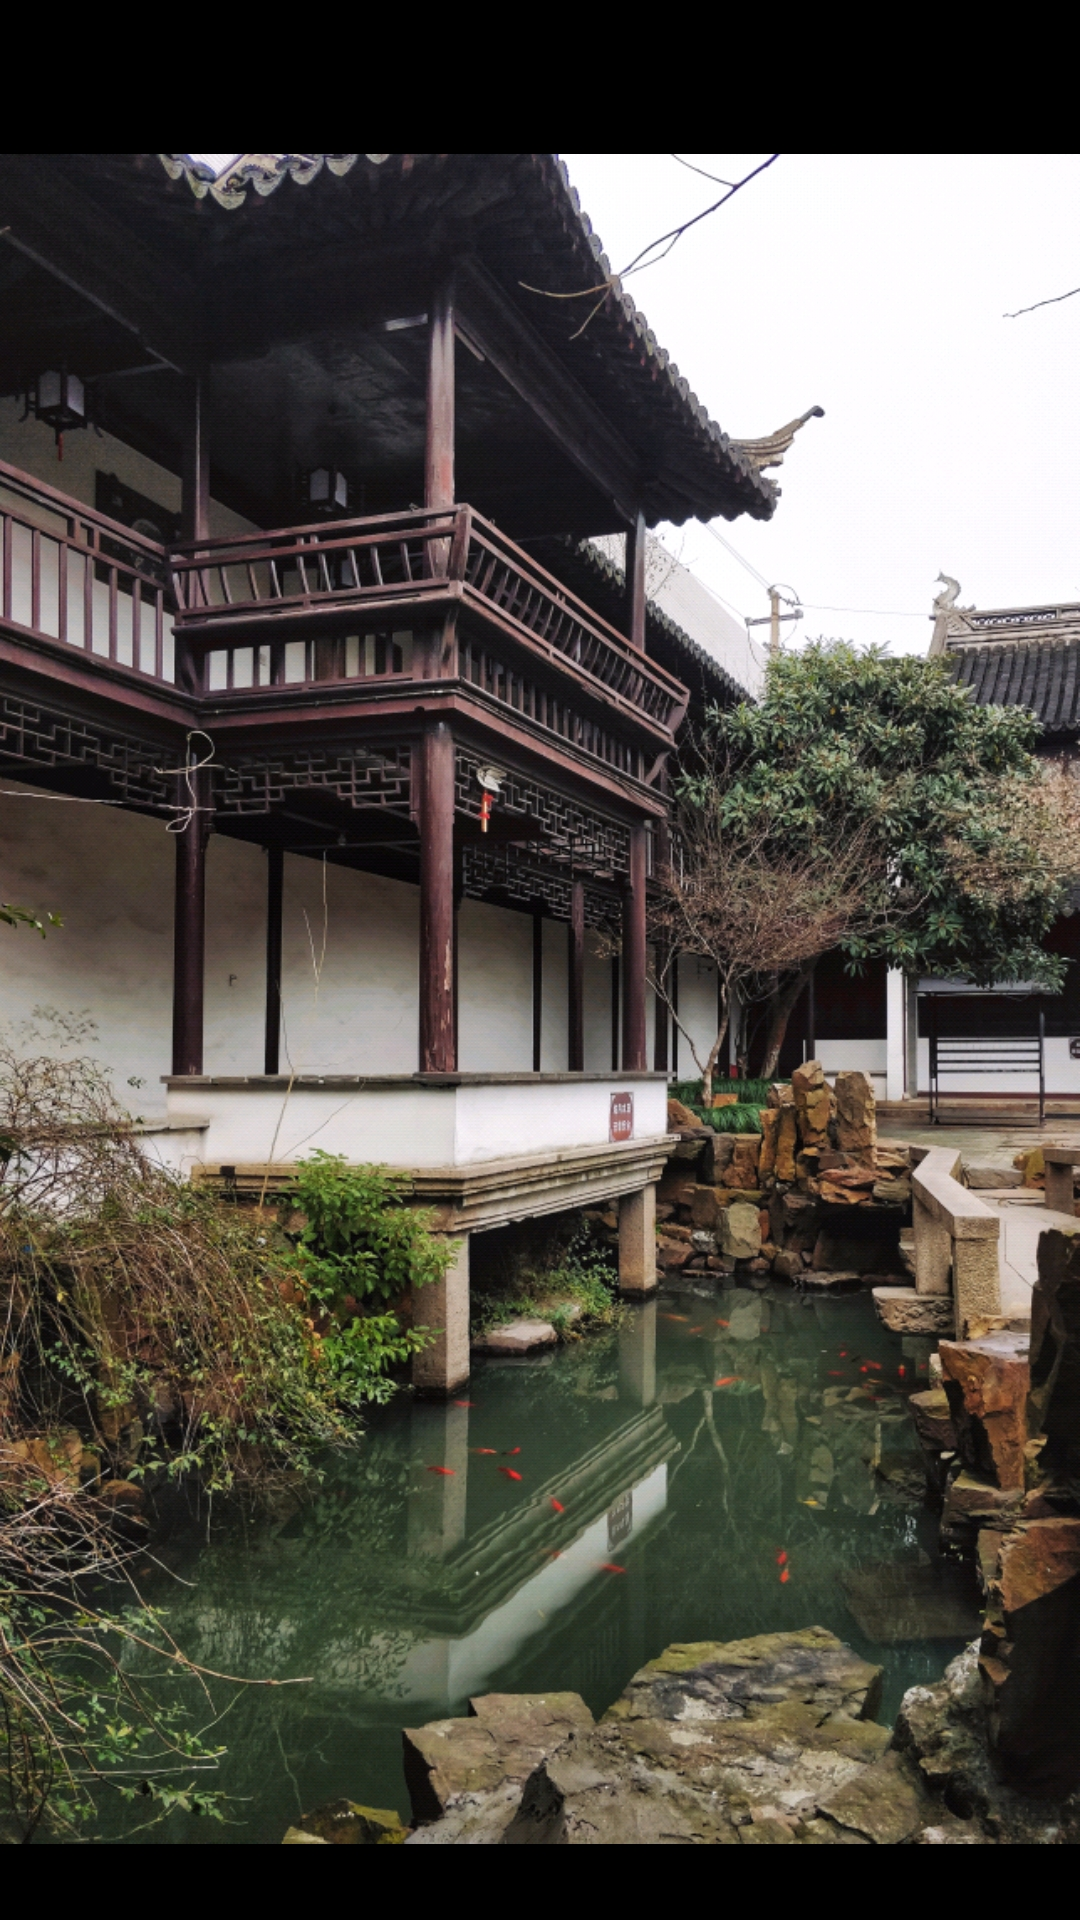
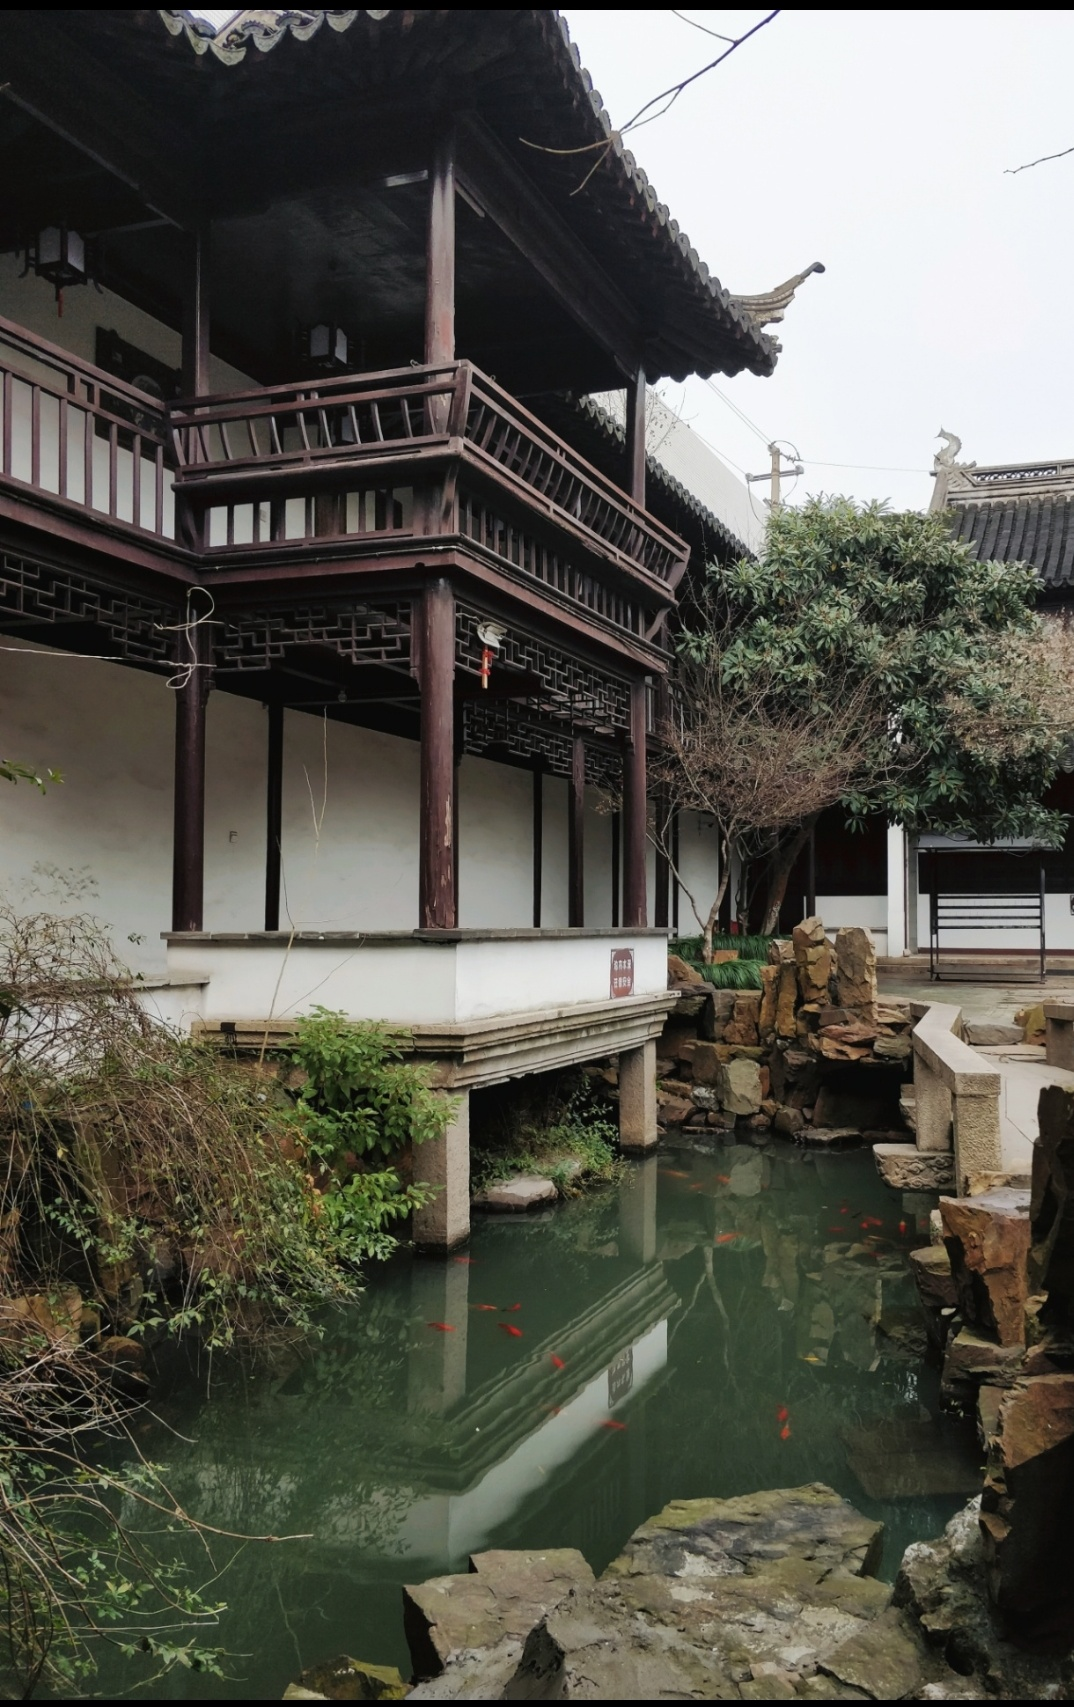
Site updated: 2019-03-06 11:07:56

diff --git a/archives/2018/08/index.html b/archives/2018/08/index.html
@@ -138,15 +138,15 @@
     </div>
 </a>
             
-                <a href="/2019/03/05/小楼昨夜又东风/">
+                <a href="/2018/08/09/hello-world/">
     <div class="dt w-100 hover-border-main-color pointer pa3 border-color bl mv3">
         <div class="dtc v-mid w-20 black-50">
             
-                <span class="f4 fw3 lh-copy">Mar 2019</span> 
+                <span class="f4 fw3 lh-copy">Aug 2018</span> 
             
         </div>
         <div class="dtc v-mid w-80 black-70">
-            <span class="f4 fw3 lh-copy">小楼昨夜又东风<span>
+            <span class="f4 fw3 lh-copy">Hello World<span>
         </span></span></div>
     </div>
 </a>
@@ -164,6 +164,19 @@
     </div>
 </a>
             
+                <a href="/2019/03/05/小楼昨夜又东风/">
+    <div class="dt w-100 hover-border-main-color pointer pa3 border-color bl mv3">
+        <div class="dtc v-mid w-20 black-50">
+            
+                <span class="f4 fw3 lh-copy">Mar 2019</span> 
+            
+        </div>
+        <div class="dtc v-mid w-80 black-70">
+            <span class="f4 fw3 lh-copy">小楼昨夜又东风<span>
+        </span></span></div>
+    </div>
+</a>
+            
                 <a href="/2019/03/04/正月二十八/">
     <div class="dt w-100 hover-border-main-color pointer pa3 border-color bl mv3">
         <div class="dtc v-mid w-20 black-50">
@@ -173,19 +186,6 @@
         </div>
         <div class="dtc v-mid w-80 black-70">
             <span class="f4 fw3 lh-copy">正月二十八<span>
-        </span></span></div>
-    </div>
-</a>
-            
-                <a href="/2018/08/09/hello-world/">
-    <div class="dt w-100 hover-border-main-color pointer pa3 border-color bl mv3">
-        <div class="dtc v-mid w-20 black-50">
-            
-                <span class="f4 fw3 lh-copy">Aug 2018</span> 
-            
-        </div>
-        <div class="dtc v-mid w-80 black-70">
-            <span class="f4 fw3 lh-copy">Hello World<span>
         </span></span></div>
     </div>
 </a>

diff --git a/archives/2018/09/index.html b/archives/2018/09/index.html
@@ -138,15 +138,15 @@
     </div>
 </a>
             
-                <a href="/2019/03/05/小楼昨夜又东风/">
+                <a href="/2018/08/09/hello-world/">
     <div class="dt w-100 hover-border-main-color pointer pa3 border-color bl mv3">
         <div class="dtc v-mid w-20 black-50">
             
-                <span class="f4 fw3 lh-copy">Mar 2019</span> 
+                <span class="f4 fw3 lh-copy">Aug 2018</span> 
             
         </div>
         <div class="dtc v-mid w-80 black-70">
-            <span class="f4 fw3 lh-copy">小楼昨夜又东风<span>
+            <span class="f4 fw3 lh-copy">Hello World<span>
         </span></span></div>
     </div>
 </a>
@@ -164,6 +164,19 @@
     </div>
 </a>
             
+                <a href="/2019/03/05/小楼昨夜又东风/">
+    <div class="dt w-100 hover-border-main-color pointer pa3 border-color bl mv3">
+        <div class="dtc v-mid w-20 black-50">
+            
+                <span class="f4 fw3 lh-copy">Mar 2019</span> 
+            
+        </div>
+        <div class="dtc v-mid w-80 black-70">
+            <span class="f4 fw3 lh-copy">小楼昨夜又东风<span>
+        </span></span></div>
+    </div>
+</a>
+            
                 <a href="/2019/03/04/正月二十八/">
     <div class="dt w-100 hover-border-main-color pointer pa3 border-color bl mv3">
         <div class="dtc v-mid w-20 black-50">
@@ -173,19 +186,6 @@
         </div>
         <div class="dtc v-mid w-80 black-70">
             <span class="f4 fw3 lh-copy">正月二十八<span>
-        </span></span></div>
-    </div>
-</a>
-            
-                <a href="/2018/08/09/hello-world/">
-    <div class="dt w-100 hover-border-main-color pointer pa3 border-color bl mv3">
-        <div class="dtc v-mid w-20 black-50">
-            
-                <span class="f4 fw3 lh-copy">Aug 2018</span> 
-            
-        </div>
-        <div class="dtc v-mid w-80 black-70">
-            <span class="f4 fw3 lh-copy">Hello World<span>
         </span></span></div>
     </div>
 </a>

diff --git a/archives/2018/index.html b/archives/2018/index.html
@@ -138,15 +138,15 @@
     </div>
 </a>
             
-                <a href="/2019/03/05/小楼昨夜又东风/">
+                <a href="/2018/08/09/hello-world/">
     <div class="dt w-100 hover-border-main-color pointer pa3 border-color bl mv3">
         <div class="dtc v-mid w-20 black-50">
             
-                <span class="f4 fw3 lh-copy">Mar 2019</span> 
+                <span class="f4 fw3 lh-copy">Aug 2018</span> 
             
         </div>
         <div class="dtc v-mid w-80 black-70">
-            <span class="f4 fw3 lh-copy">小楼昨夜又东风<span>
+            <span class="f4 fw3 lh-copy">Hello World<span>
         </span></span></div>
     </div>
 </a>
@@ -164,6 +164,19 @@
     </div>
 </a>
             
+                <a href="/2019/03/05/小楼昨夜又东风/">
+    <div class="dt w-100 hover-border-main-color pointer pa3 border-color bl mv3">
+        <div class="dtc v-mid w-20 black-50">
+            
+                <span class="f4 fw3 lh-copy">Mar 2019</span> 
+            
+        </div>
+        <div class="dtc v-mid w-80 black-70">
+            <span class="f4 fw3 lh-copy">小楼昨夜又东风<span>
+        </span></span></div>
+    </div>
+</a>
+            
                 <a href="/2019/03/04/正月二十八/">
     <div class="dt w-100 hover-border-main-color pointer pa3 border-color bl mv3">
         <div class="dtc v-mid w-20 black-50">
@@ -173,19 +186,6 @@
         </div>
         <div class="dtc v-mid w-80 black-70">
             <span class="f4 fw3 lh-copy">正月二十八<span>
-        </span></span></div>
-    </div>
-</a>
-            
-                <a href="/2018/08/09/hello-world/">
-    <div class="dt w-100 hover-border-main-color pointer pa3 border-color bl mv3">
-        <div class="dtc v-mid w-20 black-50">
-            
-                <span class="f4 fw3 lh-copy">Aug 2018</span> 
-            
-        </div>
-        <div class="dtc v-mid w-80 black-70">
-            <span class="f4 fw3 lh-copy">Hello World<span>
         </span></span></div>
     </div>
 </a>

diff --git a/archives/2019/03/index.html b/archives/2019/03/index.html
@@ -138,15 +138,15 @@
     </div>
 </a>
             
-                <a href="/2019/03/05/小楼昨夜又东风/">
+                <a href="/2018/08/09/hello-world/">
     <div class="dt w-100 hover-border-main-color pointer pa3 border-color bl mv3">
         <div class="dtc v-mid w-20 black-50">
             
-                <span class="f4 fw3 lh-copy">Mar 2019</span> 
+                <span class="f4 fw3 lh-copy">Aug 2018</span> 
             
         </div>
         <div class="dtc v-mid w-80 black-70">
-            <span class="f4 fw3 lh-copy">小楼昨夜又东风<span>
+            <span class="f4 fw3 lh-copy">Hello World<span>
         </span></span></div>
     </div>
 </a>
@@ -164,6 +164,19 @@
     </div>
 </a>
             
+                <a href="/2019/03/05/小楼昨夜又东风/">
+    <div class="dt w-100 hover-border-main-color pointer pa3 border-color bl mv3">
+        <div class="dtc v-mid w-20 black-50">
+            
+                <span class="f4 fw3 lh-copy">Mar 2019</span> 
+            
+        </div>
+        <div class="dtc v-mid w-80 black-70">
+            <span class="f4 fw3 lh-copy">小楼昨夜又东风<span>
+        </span></span></div>
+    </div>
+</a>
+            
                 <a href="/2019/03/04/正月二十八/">
     <div class="dt w-100 hover-border-main-color pointer pa3 border-color bl mv3">
         <div class="dtc v-mid w-20 black-50">
@@ -173,19 +186,6 @@
         </div>
         <div class="dtc v-mid w-80 black-70">
             <span class="f4 fw3 lh-copy">正月二十八<span>
-        </span></span></div>
-    </div>
-</a>
-            
-                <a href="/2018/08/09/hello-world/">
-    <div class="dt w-100 hover-border-main-color pointer pa3 border-color bl mv3">
-        <div class="dtc v-mid w-20 black-50">
-            
-                <span class="f4 fw3 lh-copy">Aug 2018</span> 
-            
-        </div>
-        <div class="dtc v-mid w-80 black-70">
-            <span class="f4 fw3 lh-copy">Hello World<span>
         </span></span></div>
     </div>
 </a>

diff --git a/archives/2019/index.html b/archives/2019/index.html
@@ -138,15 +138,15 @@
     </div>
 </a>
             
-                <a href="/2019/03/05/小楼昨夜又东风/">
+                <a href="/2018/08/09/hello-world/">
     <div class="dt w-100 hover-border-main-color pointer pa3 border-color bl mv3">
         <div class="dtc v-mid w-20 black-50">
             
-                <span class="f4 fw3 lh-copy">Mar 2019</span> 
+                <span class="f4 fw3 lh-copy">Aug 2018</span> 
             
         </div>
         <div class="dtc v-mid w-80 black-70">
-            <span class="f4 fw3 lh-copy">小楼昨夜又东风<span>
+            <span class="f4 fw3 lh-copy">Hello World<span>
         </span></span></div>
     </div>
 </a>
@@ -164,6 +164,19 @@
     </div>
 </a>
             
+                <a href="/2019/03/05/小楼昨夜又东风/">
+    <div class="dt w-100 hover-border-main-color pointer pa3 border-color bl mv3">
+        <div class="dtc v-mid w-20 black-50">
+            
+                <span class="f4 fw3 lh-copy">Mar 2019</span> 
+            
+        </div>
+        <div class="dtc v-mid w-80 black-70">
+            <span class="f4 fw3 lh-copy">小楼昨夜又东风<span>
+        </span></span></div>
+    </div>
+</a>
+            
                 <a href="/2019/03/04/正月二十八/">
     <div class="dt w-100 hover-border-main-color pointer pa3 border-color bl mv3">
         <div class="dtc v-mid w-20 black-50">
@@ -173,19 +186,6 @@
         </div>
         <div class="dtc v-mid w-80 black-70">
             <span class="f4 fw3 lh-copy">正月二十八<span>
-        </span></span></div>
-    </div>
-</a>
-            
-                <a href="/2018/08/09/hello-world/">
-    <div class="dt w-100 hover-border-main-color pointer pa3 border-color bl mv3">
-        <div class="dtc v-mid w-20 black-50">
-            
-                <span class="f4 fw3 lh-copy">Aug 2018</span> 
-            
-        </div>
-        <div class="dtc v-mid w-80 black-70">
-            <span class="f4 fw3 lh-copy">Hello World<span>
         </span></span></div>
     </div>
 </a>

diff --git a/archives/index.html b/archives/index.html
@@ -138,15 +138,15 @@
     </div>
 </a>
             
-                <a href="/2019/03/05/小楼昨夜又东风/">
+                <a href="/2018/08/09/hello-world/">
     <div class="dt w-100 hover-border-main-color pointer pa3 border-color bl mv3">
         <div class="dtc v-mid w-20 black-50">
             
-                <span class="f4 fw3 lh-copy">Mar 2019</span> 
+                <span class="f4 fw3 lh-copy">Aug 2018</span> 
             
         </div>
         <div class="dtc v-mid w-80 black-70">
-            <span class="f4 fw3 lh-copy">小楼昨夜又东风<span>
+            <span class="f4 fw3 lh-copy">Hello World<span>
         </span></span></div>
     </div>
 </a>
@@ -164,6 +164,19 @@
     </div>
 </a>
             
+                <a href="/2019/03/05/小楼昨夜又东风/">
+    <div class="dt w-100 hover-border-main-color pointer pa3 border-color bl mv3">
+        <div class="dtc v-mid w-20 black-50">
+            
+                <span class="f4 fw3 lh-copy">Mar 2019</span> 
+            
+        </div>
+        <div class="dtc v-mid w-80 black-70">
+            <span class="f4 fw3 lh-copy">小楼昨夜又东风<span>
+        </span></span></div>
+    </div>
+</a>
+            
                 <a href="/2019/03/04/正月二十八/">
     <div class="dt w-100 hover-border-main-color pointer pa3 border-color bl mv3">
         <div class="dtc v-mid w-20 black-50">
@@ -173,19 +186,6 @@
         </div>
         <div class="dtc v-mid w-80 black-70">
             <span class="f4 fw3 lh-copy">正月二十八<span>
-        </span></span></div>
-    </div>
-</a>
-            
-                <a href="/2018/08/09/hello-world/">
-    <div class="dt w-100 hover-border-main-color pointer pa3 border-color bl mv3">
-        <div class="dtc v-mid w-20 black-50">
-            
-                <span class="f4 fw3 lh-copy">Aug 2018</span> 
-            
-        </div>
-        <div class="dtc v-mid w-80 black-70">
-            <span class="f4 fw3 lh-copy">Hello World<span>
         </span></span></div>
     </div>
 </a>

diff --git a/2019/03/05/小楼昨夜又东风/index.html b/2019/03/05/小楼昨夜又东风/index.html
@@ -132,7 +132,7 @@
 
                     <!-- Main Post Content -->
                     <p><img src="/2019/03/05/小楼昨夜又东风/鱼.jpeg"></p>
-<p><img src="/2019/03/05/小楼昨夜又东风/树.jpg"></p>
+<p><img src="/2019/03/05/小楼昨夜又东风/楼.jpg"></p>
 
                     
                     <!-- Tags Bottom -->
